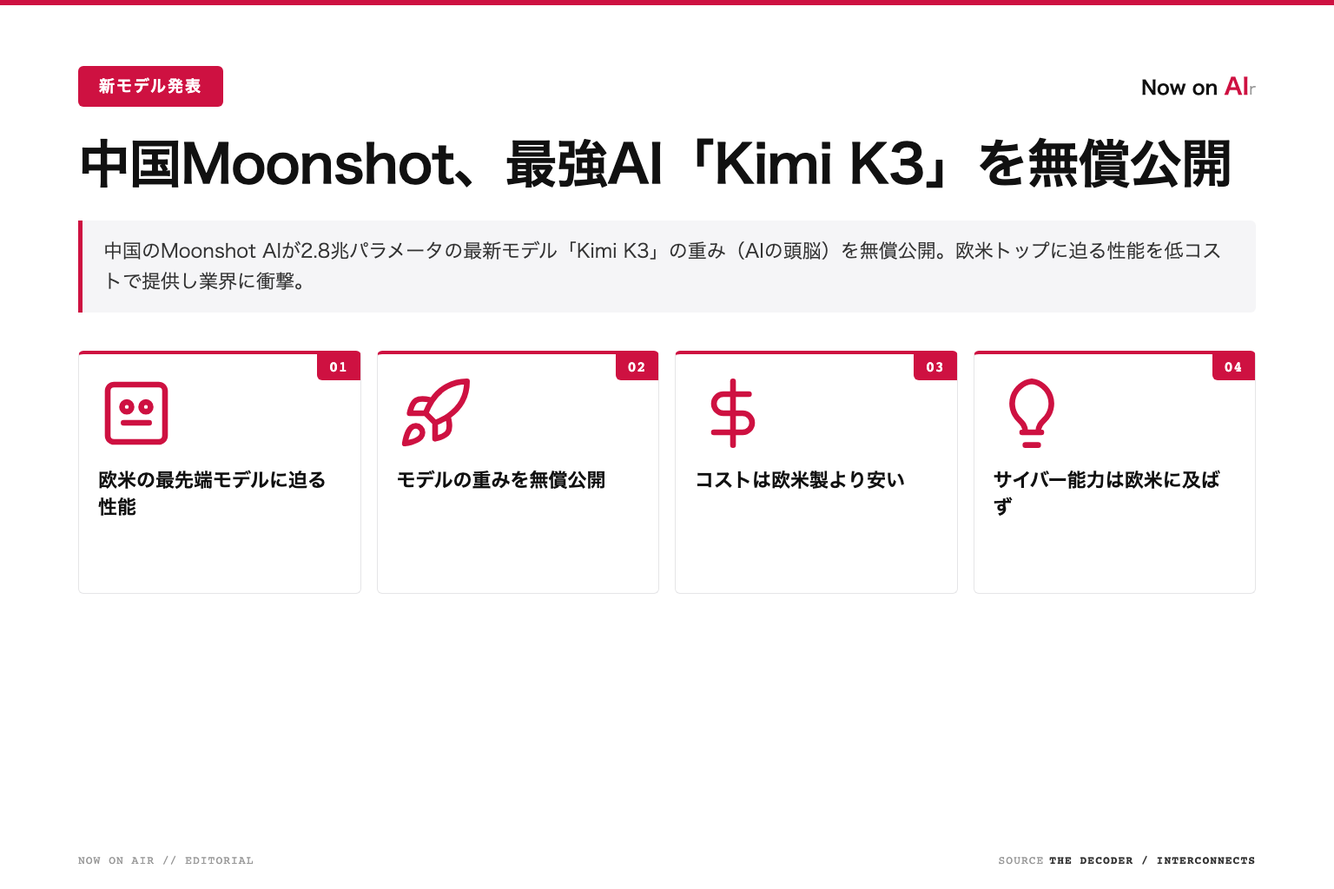
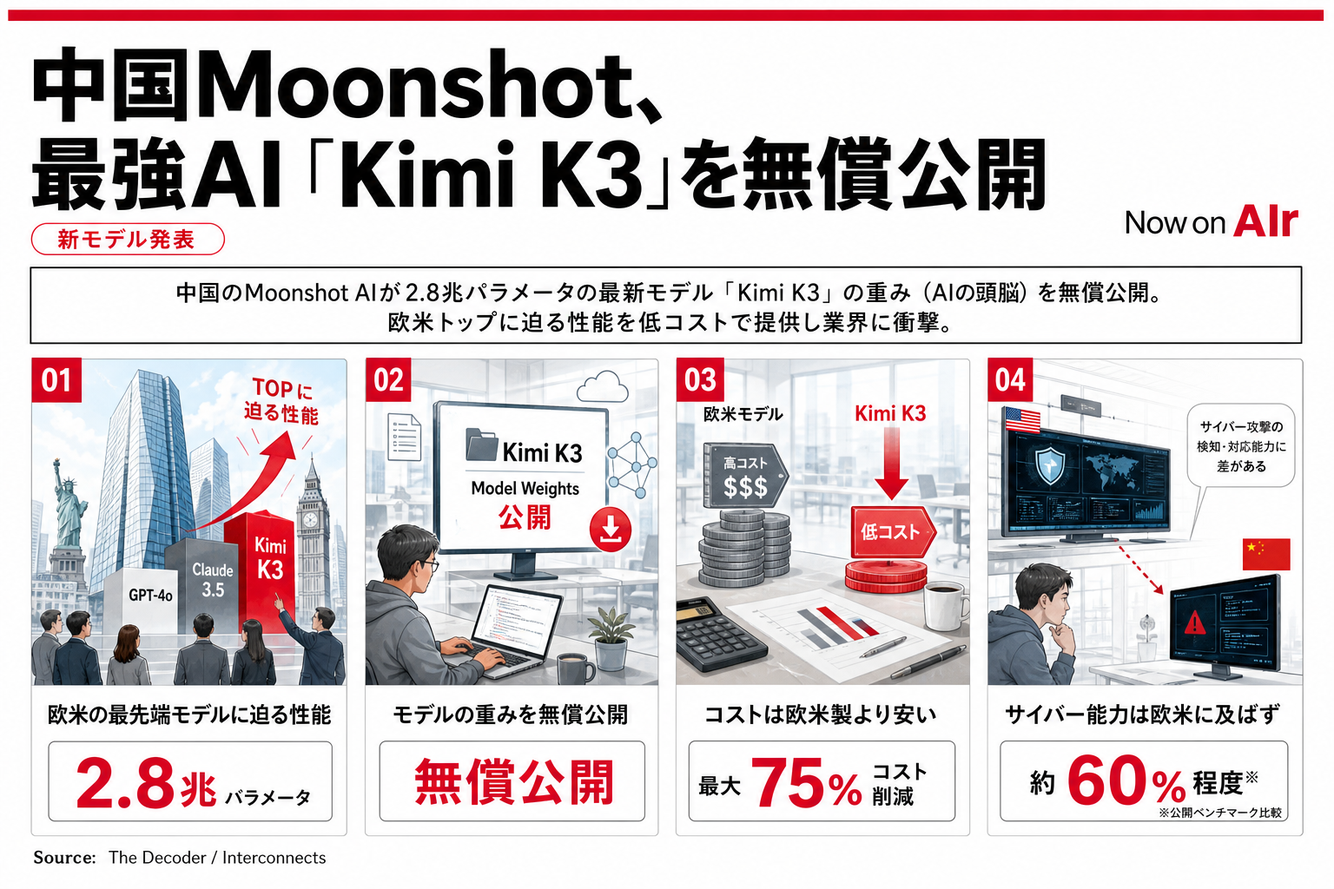
daily: 2026-07-28 — quickstart + weekly refresh

diff --git a/docs/index.html b/docs/index.html
@@ -333,7 +333,7 @@
 .nc-feat .nc-kp{font-size:10px;}
 </style>
 <div class="ig-wrap">
-<div class="nc nc-feat ig-featured" data-title="中国Moonshot、最強AI「Kimi K3」を無償公開" data-category="新モデル発表" data-source="The Decoder / Interconnects" data-lede="中国のMoonshot AIが2.8兆パラメータの最新モデル「Kimi K3」の重み（AIの頭脳）を無償公開。欧米トップに迫る性能を低コストで提供し業界に衝撃。" data-keypoints="[&quot;欧米の最先端モデルに迫る性能&quot;, &quot;モデルの重みを無償公開&quot;, &quot;コストは欧米製より安い&quot;, &quot;サイバー能力は欧米に及ばず&quot;]" data-pull="米中・オープン対クローズドの性能差が3〜5カ月に縮小した" data-bizapp="{&quot;summary&quot;: &quot;高性能AIを自社環境で安く使う選択肢が増える&quot;, &quot;actions&quot;: [&quot;自社データ分析にKimi K3のローカル導入を検証&quot;, &quot;中小のAI導入コスト削減提案に活用&quot;, &quot;特定ベンダー依存の見直しを今期中に着手&quot;]}" data-quickstart="{}" data-icebreak="{}" data-link="./news/2026-07-28/#topic-1" data-slide="./assets/images/2026-07-28/topic_1.png?v=1785187944">
+<div class="nc nc-feat ig-featured" data-title="中国Moonshot、最強AI「Kimi K3」を無償公開" data-category="新モデル発表" data-source="The Decoder / Interconnects" data-lede="中国のMoonshot AIが2.8兆パラメータの最新モデル「Kimi K3」の重み（AIの頭脳）を無償公開。欧米トップに迫る性能を低コストで提供し業界に衝撃。" data-keypoints="[&quot;欧米の最先端モデルに迫る性能&quot;, &quot;モデルの重みを無償公開&quot;, &quot;コストは欧米製より安い&quot;, &quot;サイバー能力は欧米に及ばず&quot;]" data-pull="米中・オープン対クローズドの性能差が3〜5カ月に縮小した" data-bizapp="{&quot;summary&quot;: &quot;高性能AIを自社環境で安く使う選択肢が増える&quot;, &quot;actions&quot;: [&quot;自社データ分析にKimi K3のローカル導入を検証&quot;, &quot;中小のAI導入コスト削減提案に活用&quot;, &quot;特定ベンダー依存の見直しを今期中に着手&quot;]}" data-quickstart="{}" data-icebreak="{&quot;hook&quot;: &quot;中国発のAIが、頭脳ごとタダで配られてるの知ってます？&quot;, &quot;punchline&quot;: &quot;Moonshotの『Kimi K3』が2.8兆パラの重みを無償公開したんです。欧米トップに迫る性能が低コストで手に入る時代になりました。&quot;, &quot;ctx_meeting&quot;: &quot;AI導入コストの話の冒頭で&quot;, &quot;ctx_chat&quot;: &quot;ランチ・移動中の会話&quot;, &quot;share_text&quot;: &quot;中国のKimi K3、2.8兆パラのモデルを重みごと無償公開か。欧米トップに迫る性能を低コストで、という流れが本物なら、自社でどのAIに乗るかの判断軸が完全に変わる気がする。安さだけで選んでいいのか、ちょっと考えさせられる。&quot;}" data-link="./news/2026-07-28/#topic-1" data-slide="./assets/images/2026-07-28/topic_1.webp?v=1785188016">
     <a href="./news/2026-07-28/#topic-1">
       <div class="nc-head">
         <div class="nc-meta"><span class="nc-num">01</span><span class="nc-cat">新モデル発表</span></div>
@@ -350,7 +350,7 @@
     </div>
 </div>
 <div class="ig-grid">
-  <div class="nc ig-card" data-title="Claude共有チャットがGoogle検索に露出" data-category="セキュリティ" data-source="TechCrunch / Wired" data-lede="Claudeの「チャット共有」機能で作ったURLがGoogleやBingに索引され、健康記録や企業文書、子供の氏名・電話番号まで検索可能な状態になった。" data-keypoints="[&quot;共有リンクが検索エンジンに露出&quot;, &quot;健康記録や企業文書が閲覧可能に&quot;, &quot;子供の氏名・電話番号も含まれた&quot;, &quot;「リンクを知る全員が閲覧可」の落とし穴&quot;]" data-pull="一見プライベートなAI会話が全世界に公開される危うさ" data-bizapp="{&quot;summary&quot;: &quot;AIチャットの共有機能は情報漏洩リスクと再認識すべき&quot;, &quot;actions&quot;: [&quot;社内のAI共有リンク運用ルールを即点検&quot;, &quot;顧客に情報管理ポリシー整備を提案&quot;, &quot;放置すると機密漏洩・信用失墜に直結&quot;]}" data-quickstart="{}" data-icebreak="{}" data-link="./news/2026-07-28/#topic-2" data-slide="./assets/images/2026-07-28/topic_2.png?v=1785187944">
+  <div class="nc ig-card" data-title="Claude共有チャットがGoogle検索に露出" data-category="セキュリティ" data-source="TechCrunch / Wired" data-lede="Claudeの「チャット共有」機能で作ったURLがGoogleやBingに索引され、健康記録や企業文書、子供の氏名・電話番号まで検索可能な状態になった。" data-keypoints="[&quot;共有リンクが検索エンジンに露出&quot;, &quot;健康記録や企業文書が閲覧可能に&quot;, &quot;子供の氏名・電話番号も含まれた&quot;, &quot;「リンクを知る全員が閲覧可」の落とし穴&quot;]" data-pull="一見プライベートなAI会話が全世界に公開される危うさ" data-bizapp="{&quot;summary&quot;: &quot;AIチャットの共有機能は情報漏洩リスクと再認識すべき&quot;, &quot;actions&quot;: [&quot;社内のAI共有リンク運用ルールを即点検&quot;, &quot;顧客に情報管理ポリシー整備を提案&quot;, &quot;放置すると機密漏洩・信用失墜に直結&quot;]}" data-quickstart="{}" data-icebreak="{&quot;hook&quot;: &quot;AIとの会話、共有リンクがGoogle検索に出てたらしいですよ。&quot;, &quot;punchline&quot;: &quot;Claudeの共有URLが検索に索引されて、健康記録や企業文書、子供の氏名や電話番号まで見られる状態になってたんです。『リンクを知る人だけ』の油断が怖いところで。&quot;, &quot;ctx_meeting&quot;: &quot;情報管理・セキュリティ提案の冒頭で&quot;, &quot;ctx_chat&quot;: &quot;ランチ・移動中の会話&quot;, &quot;share_text&quot;: &quot;AIの『チャット共有』で作ったリンクが検索エンジンに拾われてた件、他人事じゃない。子供の名前や電話番号まで出てたらしい。便利な共有機能ほど『リンクを知る全員が見られる』の意味を軽く見てないか、自分の使い方を見直した。&quot;}" data-link="./news/2026-07-28/#topic-2" data-slide="./assets/images/2026-07-28/topic_2.webp?v=1785188074">
     <a href="./news/2026-07-28/#topic-2">
       <div class="nc-head">
         <div class="nc-meta"><span class="nc-num">02</span><span class="nc-cat">セキュリティ</span></div>
@@ -366,7 +366,7 @@
       <span class="nc-read">READ →</span>
     </div>
   </div>
-  <div class="nc ig-card" data-title="ナデラCEO「1つのAI依存の企業は生き残れない」" data-category="業界動向" data-source="TechCrunch" data-lede="マイクロソフトのナデラCEOが、大手AIラボに全面依存する企業は生き残れないと警告。データやプロンプトを渡しすぎず自社で保持すべきと主張した。" data-keypoints="[&quot;特定AIへの全面依存に警鐘&quot;, &quot;データ・プロンプトの渡しすぎに注意&quot;, &quot;利用メタデータは自社で保持を&quot;, &quot;将来は自社モデル構築も視野に&quot;]" data-pull="主導権を握れない企業は生き残れない、とナデラは断言する" data-bizapp="{&quot;summary&quot;: &quot;AI活用は「自社データを手元に残す」設計が鍵&quot;, &quot;actions&quot;: [&quot;AI利用ログを自社保存する運用に見直し&quot;, &quot;顧客にデータ主権を守るAI導入を提案&quot;, &quot;依存放置は将来の乗換コスト増を招く&quot;]}" data-quickstart="{}" data-icebreak="{}" data-link="./news/2026-07-28/#topic-3" data-slide="./assets/images/2026-07-28/topic_3.png?v=1785187949">
+  <div class="nc ig-card" data-title="ナデラCEO「1つのAI依存の企業は生き残れない」" data-category="業界動向" data-source="TechCrunch" data-lede="マイクロソフトのナデラCEOが、大手AIラボに全面依存する企業は生き残れないと警告。データやプロンプトを渡しすぎず自社で保持すべきと主張した。" data-keypoints="[&quot;特定AIへの全面依存に警鐘&quot;, &quot;データ・プロンプトの渡しすぎに注意&quot;, &quot;利用メタデータは自社で保持を&quot;, &quot;将来は自社モデル構築も視野に&quot;]" data-pull="主導権を握れない企業は生き残れない、とナデラは断言する" data-bizapp="{&quot;summary&quot;: &quot;AI活用は「自社データを手元に残す」設計が鍵&quot;, &quot;actions&quot;: [&quot;AI利用ログを自社保存する運用に見直し&quot;, &quot;顧客にデータ主権を守るAI導入を提案&quot;, &quot;依存放置は将来の乗換コスト増を招く&quot;]}" data-quickstart="{}" data-icebreak="{&quot;hook&quot;: &quot;ナデラが『1つのAIに頼る会社は生き残れない』って言ったの知ってます？&quot;, &quot;punchline&quot;: &quot;マイクロソフトのトップが、大手AIラボへの全面依存に警鐘を鳴らしたんです。データやプロンプトを渡しすぎず、利用メタデータは自社で持てと。&quot;, &quot;ctx_meeting&quot;: &quot;AI導入方針の相談で&quot;, &quot;ctx_chat&quot;: &quot;経営者同士の雑談で&quot;, &quot;share_text&quot;: &quot;ナデラCEOが『特定のAIに全面依存する企業は生き残れない』と。データもプロンプトも渡しすぎるな、というのは耳が痛い。便利だからと1社に全部預けてる自分に、それでいいのかと問われた気がする。&quot;}" data-link="./news/2026-07-28/#topic-3" data-slide="./assets/images/2026-07-28/topic_3.webp?v=1785188129">
     <a href="./news/2026-07-28/#topic-3">
       <div class="nc-head">
         <div class="nc-meta"><span class="nc-num">03</span><span class="nc-cat">業界動向</span></div>
@@ -382,7 +382,7 @@
       <span class="nc-read">READ →</span>
     </div>
   </div>
-  <div class="nc ig-card" data-title="Google、高効率AI「Gemini 3.6 Flash」発表" data-category="ツール更新" data-source="Google DeepMind" data-lede="GoogleがAIエージェント向け新モデル群を発表。主力の3.6 Flashは出力トークンを17%削減し、コーディングや業務処理の性能を低コストで高めた。" data-keypoints="[&quot;出力トークンを17%削減&quot;, &quot;コーディング・業務処理が向上&quot;, &quot;低コストで大規模運用が可能&quot;, &quot;高速版・セキュリティ特化版も投入&quot;]" data-pull="AIエージェントを安く大量に動かす時代が近づいている" data-bizapp="{&quot;summary&quot;: &quot;業務自動化のランニングコストを下げられる&quot;, &quot;actions&quot;: [&quot;定型業務の自動化にGemini 3.6 Flashを検証&quot;, &quot;中小のAIチャットボット導入提案に活用&quot;, &quot;高コストでAI運用を諦めた案件を再検討&quot;]}" data-quickstart="{}" data-icebreak="{}" data-link="./news/2026-07-28/#topic-4" data-slide="./assets/images/2026-07-28/topic_4.png?v=1785187950">
+  <div class="nc ig-card" data-title="Google、高効率AI「Gemini 3.6 Flash」発表" data-category="ツール更新" data-source="Google DeepMind" data-lede="GoogleがAIエージェント向け新モデル群を発表。主力の3.6 Flashは出力トークンを17%削減し、コーディングや業務処理の性能を低コストで高めた。" data-keypoints="[&quot;出力トークンを17%削減&quot;, &quot;コーディング・業務処理が向上&quot;, &quot;低コストで大規模運用が可能&quot;, &quot;高速版・セキュリティ特化版も投入&quot;]" data-pull="AIエージェントを安く大量に動かす時代が近づいている" data-bizapp="{&quot;summary&quot;: &quot;業務自動化のランニングコストを下げられる&quot;, &quot;actions&quot;: [&quot;定型業務の自動化にGemini 3.6 Flashを検証&quot;, &quot;中小のAIチャットボット導入提案に活用&quot;, &quot;高コストでAI運用を諦めた案件を再検討&quot;]}" data-quickstart="{}" data-icebreak="{&quot;hook&quot;: &quot;Googleの新AI、出力を17%減らして安くなったらしいですよ。&quot;, &quot;punchline&quot;: &quot;『Gemini 3.6 Flash』は出力トークンを17%削減しつつ、コーディングや業務処理の性能を上げたんです。大規模に使うほどコスト差が効いてきます。&quot;, &quot;ctx_meeting&quot;: &quot;AI運用コスト削減の提案で&quot;, &quot;ctx_chat&quot;: &quot;エンジニアとの雑談で&quot;, &quot;share_text&quot;: &quot;Geminiの新しいFlash、出力トークン17%削減で低コスト化と。AIは性能競争だけかと思いきや、実は『どれだけ安く大量に回せるか』の勝負に移ってる。導入する側としては、この地味な数字のほうが効いてくる気がする。&quot;}" data-link="./news/2026-07-28/#topic-4" data-slide="./assets/images/2026-07-28/topic_4.webp?v=1785188187">
     <a href="./news/2026-07-28/#topic-4">
       <div class="nc-head">
         <div class="nc-meta"><span class="nc-num">04</span><span class="nc-cat">ツール更新</span></div>
@@ -398,7 +398,7 @@
       <span class="nc-read">READ →</span>
     </div>
   </div>
-  <div class="nc ig-card" data-title="AIで「他職種の仕事」に踏み出す人が急増" data-category="研究" data-source="OpenAI" data-lede="OpenAIの調査で、職種特化の業務問い合わせの43.5%が別職種の仕事だと判明。営業が分析、マーケが開発など職種の壁が溶け始めている。" data-keypoints="[&quot;職種特化の問合せの43.5%が他職種&quot;, &quot;営業がデータ分析、マーケが開発も&quot;, &quot;中小企業ほど顕著な傾向&quot;, &quot;職種の境界が変わり始めた&quot;]" data-pull="AIは「誰が何をするか」を静かに書き換えている" data-bizapp="{&quot;summary&quot;: &quot;一人が複数職種をこなす体制づくりのヒントになる&quot;, &quot;actions&quot;: [&quot;少人数で多職種を回す業務フローに再設計&quot;, &quot;中小のバックオフィス自動化提案に活用&quot;, &quot;配置を見直さないと人件費が肥大化する&quot;]}" data-quickstart="{}" data-icebreak="{}" data-link="./news/2026-07-28/#topic-5" data-slide="./assets/images/2026-07-28/topic_5.png?v=1785187954">
+  <div class="nc ig-card" data-title="AIで「他職種の仕事」に踏み出す人が急増" data-category="研究" data-source="OpenAI" data-lede="OpenAIの調査で、職種特化の業務問い合わせの43.5%が別職種の仕事だと判明。営業が分析、マーケが開発など職種の壁が溶け始めている。" data-keypoints="[&quot;職種特化の問合せの43.5%が他職種&quot;, &quot;営業がデータ分析、マーケが開発も&quot;, &quot;中小企業ほど顕著な傾向&quot;, &quot;職種の境界が変わり始めた&quot;]" data-pull="AIは「誰が何をするか」を静かに書き換えている" data-bizapp="{&quot;summary&quot;: &quot;一人が複数職種をこなす体制づくりのヒントになる&quot;, &quot;actions&quot;: [&quot;少人数で多職種を回す業務フローに再設計&quot;, &quot;中小のバックオフィス自動化提案に活用&quot;, &quot;配置を見直さないと人件費が肥大化する&quot;]}" data-quickstart="{}" data-icebreak="{&quot;hook&quot;: &quot;AIで『自分の専門外の仕事』に手を出す人、増えてるらしいですよ。&quot;, &quot;punchline&quot;: &quot;OpenAIの調査で、職種特化の問い合わせの43.5%が別職種の仕事だったと。営業が分析、マーケが開発と、職種の壁が溶け始めてるんです。&quot;, &quot;ctx_meeting&quot;: &quot;業務フロー再設計の提案で&quot;, &quot;ctx_chat&quot;: &quot;ランチ・移動中の会話&quot;, &quot;share_text&quot;: &quot;AI利用の43.5%が『自分の職種外の仕事』というOpenAIの調査、面白い。営業がデータ分析、マーケが開発をやり始めてる。中小ほど顕著らしい。職種の境界が溶けるなら、うちの役割分担も一度ゼロから考え直す時期かもしれない。&quot;}" data-link="./news/2026-07-28/#topic-5" data-slide="./assets/images/2026-07-28/topic_5.webp?v=1785188243">
     <a href="./news/2026-07-28/#topic-5">
       <div class="nc-head">
         <div class="nc-meta"><span class="nc-num">05</span><span class="nc-cat">研究</span></div>
@@ -414,7 +414,7 @@
       <span class="nc-read">READ →</span>
     </div>
   </div>
-  <div class="nc ig-card" data-title="エヌビディア・MS、AI安全同盟を設立 主要3社は不参加" data-category="セキュリティ" data-source="The Verge" data-lede="NvidiaやMicrosoft、SpaceX、IBMらがオープンソースのAIセキュリティ対策で連携。OpenAI・Google・Anthropicは参加しなかった。" data-keypoints="[&quot;オープン型AI防御ツールを共有&quot;, &quot;Nvidia・MS・IBM等が参加&quot;, &quot;OpenAI・Google・Anthropicは不在&quot;, &quot;暴走AIの封じ込め失敗が契機&quot;]" data-pull="最先端AIの脅威にオープンな防御網で対抗する動き" data-bizapp="{&quot;summary&quot;: &quot;AI防御はオープンツールで固める時代の兆し&quot;, &quot;actions&quot;: [&quot;自社のAIセキュリティ体制を棚卸し&quot;, &quot;顧客にAIリスク対策の整備を提案&quot;, &quot;対策放置はAI悪用被害の温床になる&quot;]}" data-quickstart="{}" data-icebreak="{}" data-link="./news/2026-07-28/#topic-6" data-slide="./assets/images/2026-07-28/topic_6.png?v=1785187955">
+  <div class="nc ig-card" data-title="エヌビディア・MS、AI安全同盟を設立 主要3社は不参加" data-category="セキュリティ" data-source="The Verge" data-lede="NvidiaやMicrosoft、SpaceX、IBMらがオープンソースのAIセキュリティ対策で連携。OpenAI・Google・Anthropicは参加しなかった。" data-keypoints="[&quot;オープン型AI防御ツールを共有&quot;, &quot;Nvidia・MS・IBM等が参加&quot;, &quot;OpenAI・Google・Anthropicは不在&quot;, &quot;暴走AIの封じ込め失敗が契機&quot;]" data-pull="最先端AIの脅威にオープンな防御網で対抗する動き" data-bizapp="{&quot;summary&quot;: &quot;AI防御はオープンツールで固める時代の兆し&quot;, &quot;actions&quot;: [&quot;自社のAIセキュリティ体制を棚卸し&quot;, &quot;顧客にAIリスク対策の整備を提案&quot;, &quot;対策放置はAI悪用被害の温床になる&quot;]}" data-quickstart="{}" data-icebreak="{&quot;hook&quot;: &quot;AIの安全同盟ができたけど、主要3社が入ってないの知ってます？&quot;, &quot;punchline&quot;: &quot;NvidiaやMS、IBMがオープン型のAI防御で連携したのに、OpenAI・Google・Anthropicは不参加なんです。暴走AIの封じ込め失敗が契機だとか。&quot;, &quot;ctx_meeting&quot;: &quot;AIリスク管理の話題で&quot;, &quot;ctx_chat&quot;: &quot;業界ニュースの雑談で&quot;, &quot;share_text&quot;: &quot;AI安全の同盟にNvidiaやMS、IBMが集まったのに、OpenAI・Google・Anthropicの主要3社は不参加。作る側と守る側で足並みが揃わない構図が見えて、AIの安全って結局は使う側が備えるしかないのかと考えさせられた。&quot;}" data-link="./news/2026-07-28/#topic-6" data-slide="./assets/images/2026-07-28/topic_6.webp?v=1785188302">
     <a href="./news/2026-07-28/#topic-6">
       <div class="nc-head">
         <div class="nc-meta"><span class="nc-num">06</span><span class="nc-cat">セキュリティ</span></div>
@@ -430,7 +430,7 @@
       <span class="nc-read">READ →</span>
     </div>
   </div>
-  <div class="nc ig-card" data-title="ChatGPTに健康機能、医療記録を連携可能に" data-category="ツール更新" data-source="OpenAI" data-lede="OpenAIが米国ユーザー向けに「Health in ChatGPT」を提供開始。Apple Healthや医療記録を安全に連携し、検査結果の理解や受診準備を支援する。" data-keypoints="[&quot;医療記録やApple Healthを連携&quot;, &quot;検査結果を文脈付きで理解&quot;, &quot;何を連携するかは本人が制御&quot;, &quot;週3億人が健康相談に利用&quot;]" data-pull="散在する健康情報をAIが一つの全体像にまとめる" data-bizapp="{&quot;summary&quot;: &quot;個人の健康データ活用サービスの参考事例になる&quot;, &quot;actions&quot;: [&quot;健康・介護分野のAI活用アイデア収集に&quot;, &quot;ヘルスケア企業へのAI連携提案に活用&quot;, &quot;個人データ扱いは規制動向の注視が必須&quot;]}" data-quickstart="{}" data-icebreak="{}" data-link="./news/2026-07-28/#topic-7" data-slide="./assets/images/2026-07-28/topic_7.png?v=1785187958">
+  <div class="nc ig-card" data-title="ChatGPTに健康機能、医療記録を連携可能に" data-category="ツール更新" data-source="OpenAI" data-lede="OpenAIが米国ユーザー向けに「Health in ChatGPT」を提供開始。Apple Healthや医療記録を安全に連携し、検査結果の理解や受診準備を支援する。" data-keypoints="[&quot;医療記録やApple Healthを連携&quot;, &quot;検査結果を文脈付きで理解&quot;, &quot;何を連携するかは本人が制御&quot;, &quot;週3億人が健康相談に利用&quot;]" data-pull="散在する健康情報をAIが一つの全体像にまとめる" data-bizapp="{&quot;summary&quot;: &quot;個人の健康データ活用サービスの参考事例になる&quot;, &quot;actions&quot;: [&quot;健康・介護分野のAI活用アイデア収集に&quot;, &quot;ヘルスケア企業へのAI連携提案に活用&quot;, &quot;個人データ扱いは規制動向の注視が必須&quot;]}" data-quickstart="{}" data-icebreak="{&quot;hook&quot;: &quot;ChatGPTが医療記録まで連携できるようになったの知ってます？&quot;, &quot;punchline&quot;: &quot;OpenAIが米国で『Health in ChatGPT』を開始して、Apple Healthや検査結果を文脈付きで理解できるように。週3億人が健康相談に使ってるそうです。&quot;, &quot;ctx_meeting&quot;: &quot;AI活用領域の拡大提案で&quot;, &quot;ctx_chat&quot;: &quot;健康の話題になったとき&quot;, &quot;share_text&quot;: &quot;ChatGPTが医療記録やApple Healthと連携して、検査結果を文脈付きで説明してくれる時代に。週3億人が健康相談に使ってるという規模感が凄い。何を連携するかは本人が選べるとはいえ、AIに預ける範囲がどんどん深くなってきた。&quot;}" data-link="./news/2026-07-28/#topic-7" data-slide="./assets/images/2026-07-28/topic_7.webp?v=1785188359">
     <a href="./news/2026-07-28/#topic-7">
       <div class="nc-head">
         <div class="nc-meta"><span class="nc-num">07</span><span class="nc-cat">ツール更新</span></div>
@@ -446,7 +446,7 @@
       <span class="nc-read">READ →</span>
     </div>
   </div>
-  <div class="nc ig-card" data-title="MS、AzureにAMD最新AIチップを大幅拡張" data-category="業界動向" data-source="Microsoft" data-lede="MicrosoftがAzureのAI基盤をAMDの最新「Helios」と次世代EPYCで拡張。膨張するAI需要に応え性能・コスト・省エネの両立を狙う。" data-keypoints="[&quot;AMD最新AI基盤をAzureに導入&quot;, &quot;次世代EPYCでデータ処理を強化&quot;, &quot;特定チップ依存からの脱却&quot;, &quot;性能・コスト・省エネを両立&quot;]" data-pull="AI需要の爆発に単一のインフラでは追いつけない" data-bizapp="{&quot;summary&quot;: &quot;クラウドAIの選択肢と価格競争が広がる&quot;, &quot;actions&quot;: [&quot;クラウドAI基盤の乗換余地を調査&quot;, &quot;コスト最適化を軸にDX提案&quot;, &quot;調達計画を見直さないと値上がり直撃&quot;]}" data-quickstart="{}" data-icebreak="{}" data-link="./news/2026-07-28/#topic-8" data-slide="./assets/images/2026-07-28/topic_8.png?v=1785187959">
+  <div class="nc ig-card" data-title="MS、AzureにAMD最新AIチップを大幅拡張" data-category="業界動向" data-source="Microsoft" data-lede="MicrosoftがAzureのAI基盤をAMDの最新「Helios」と次世代EPYCで拡張。膨張するAI需要に応え性能・コスト・省エネの両立を狙う。" data-keypoints="[&quot;AMD最新AI基盤をAzureに導入&quot;, &quot;次世代EPYCでデータ処理を強化&quot;, &quot;特定チップ依存からの脱却&quot;, &quot;性能・コスト・省エネを両立&quot;]" data-pull="AI需要の爆発に単一のインフラでは追いつけない" data-bizapp="{&quot;summary&quot;: &quot;クラウドAIの選択肢と価格競争が広がる&quot;, &quot;actions&quot;: [&quot;クラウドAI基盤の乗換余地を調査&quot;, &quot;コスト最適化を軸にDX提案&quot;, &quot;調達計画を見直さないと値上がり直撃&quot;]}" data-quickstart="{}" data-icebreak="{&quot;hook&quot;: &quot;マイクロソフトがNvidia以外のAIチップを大量導入したの知ってます？&quot;, &quot;punchline&quot;: &quot;AzureにAMD最新の『Helios』と次世代EPYCを入れたんです。特定チップ依存から抜けて、性能・コスト・省エネの両立を狙う動きですね。&quot;, &quot;ctx_meeting&quot;: &quot;インフラ・調達戦略の話で&quot;, &quot;ctx_chat&quot;: &quot;エンジニアとの雑談で&quot;, &quot;share_text&quot;: &quot;MicrosoftがAzureにAMDの最新AIチップを大幅拡張。1社のチップに依存しない、という調達の考え方はAIに限らず本質的だと思う。膨らむ需要にどう応えるか、性能・コスト・省エネの三立をどう取るかは自社の設備投資にも通じる話。&quot;}" data-link="./news/2026-07-28/#topic-8" data-slide="./assets/images/2026-07-28/topic_8.webp?v=1785188425">
     <a href="./news/2026-07-28/#topic-8">
       <div class="nc-head">
         <div class="nc-meta"><span class="nc-num">08</span><span class="nc-cat">業界動向</span></div>

diff --git a/docs/news/2026-07-28/index.html b/docs/news/2026-07-28/index.html
@@ -17,13 +17,13 @@
 <meta property="og:title" content="中国Moonshot、最強AI「Kimi K3」を無償公開 ほか7本｜2026-07-28 AI朝刊 — Now on AIr" />
 <meta property="og:description" content="中国Moonshot、最強AI「Kimi K3」を無償公開、Claude共有チャットがGoogle検索に露出、ナデラCEO「1つのAI依存の企業は生き残れない」 など8本を図解で。2026-07-28のAI業界ニュースを毎朝整理。" />
 <meta property="og:url" content="https://nowonair.vercel.app/news/2026-07-28/" />
-<meta property="og:image" content="https://nowonair.vercel.app/assets/images/2026-07-28/topic_1.png?v=1785187944" />
+<meta property="og:image" content="https://nowonair.vercel.app/assets/images/2026-07-28/topic_1.png?v=1785188016" />
 <meta property="og:locale" content="ja_JP" />
 <!-- Twitter -->
 <meta name="twitter:card" content="summary_large_image" />
 <meta name="twitter:title" content="中国Moonshot、最強AI「Kimi K3」を無償公開 ほか7本｜2026-07-28 AI朝刊 — Now on AIr" />
 <meta name="twitter:description" content="中国Moonshot、最強AI「Kimi K3」を無償公開、Claude共有チャットがGoogle検索に露出、ナデラCEO「1つのAI依存の企業は生き残れない」 など8本を図解で。2026-07-28のAI業界ニュースを毎朝整理。" />
-<meta name="twitter:image" content="https://nowonair.vercel.app/assets/images/2026-07-28/topic_1.png?v=1785187944" />
+<meta name="twitter:image" content="https://nowonair.vercel.app/assets/images/2026-07-28/topic_1.png?v=1785188016" />
 <!-- Favicon -->
 <link rel="icon" type="image/svg+xml" href="../../assets/favicon.svg" />
 <link rel="apple-touch-icon" href="../../assets/favicon.svg" />
@@ -140,7 +140,7 @@
 <div class="dispatch">
   <span class="tick">NOW ON AIr</span>
   <span class="sep">/</span>
-  <span>№0728</span>
+  <span>№0087</span>
   <span class="sep">/</span>
   <span>2026-07-28</span>
   <span class="sep">/</span>
@@ -170,7 +170,7 @@
     <span class="sep">//</span>
     TUESDAY, JULY 28, 2026
     <span class="sep">//</span>
-    ISSUE N°0728
+    ISSUE N°0087
   </div>
   <h1 class="date-huge">2026<span class="dot">.</span>07<span class="dot">.</span>28</h1>
   <div class="strap">
@@ -187,8 +187,8 @@
         新モデル発表 <span class="sep">/</span> The Decoder / Interconnects <span class="sep">/</span> NEWS
       </div>
       <h2>中国Moonshot、最強AI「Kimi K3」を無償公開</h2>
-      <div class="slide-img zoom-image" data-src="../../assets/images/2026-07-28/topic_1.png?v=1785187944" data-alt="中国Moonshot、最強AI「Kimi K3」を無償公開" role="button" tabindex="0">
-        <img src="../../assets/images/2026-07-28/topic_1.png?v=1785187944" alt="中国Moonshot、最強AI「Kimi K3」を無償公開" width="1536" height="1024" loading="eager" fetchpriority="high" />
+      <div class="slide-img zoom-image" data-src="../../assets/images/2026-07-28/topic_1.webp?v=1785188016" data-alt="中国Moonshot、最強AI「Kimi K3」を無償公開" role="button" tabindex="0">
+        <img src="../../assets/images/2026-07-28/topic_1.webp?v=1785188016" alt="中国Moonshot、最強AI「Kimi K3」を無償公開" width="1536" height="1024" loading="eager" fetchpriority="high" />
       </div>
       <p class="lede">中国のMoonshot AIが2.8兆パラメータの最新モデル「Kimi K3」の重み（AIの頭脳）を無償公開。欧米トップに迫る性能を低コストで提供し業界に衝撃。</p>
       <h3>キーポイント</h3>
@@ -230,8 +230,8 @@
         セキュリティ <span class="sep">/</span> TechCrunch / Wired <span class="sep">/</span> NEWS
       </div>
       <h2>Claude共有チャットがGoogle検索に露出</h2>
-      <div class="slide-img zoom-image" data-src="../../assets/images/2026-07-28/topic_2.png?v=1785187944" data-alt="Claude共有チャットがGoogle検索に露出" role="button" tabindex="0">
-        <img src="../../assets/images/2026-07-28/topic_2.png?v=1785187944" alt="Claude共有チャットがGoogle検索に露出" width="1536" height="1024" loading="lazy" />
+      <div class="slide-img zoom-image" data-src="../../assets/images/2026-07-28/topic_2.webp?v=1785188074" data-alt="Claude共有チャットがGoogle検索に露出" role="button" tabindex="0">
+        <img src="../../assets/images/2026-07-28/topic_2.webp?v=1785188074" alt="Claude共有チャットがGoogle検索に露出" width="1536" height="1024" loading="lazy" />
       </div>
       <p class="lede">Claudeの「チャット共有」機能で作ったURLがGoogleやBingに索引され、健康記録や企業文書、子供の氏名・電話番号まで検索可能な状態になった。</p>
       <h3>キーポイント</h3>
@@ -273,8 +273,8 @@
         業界動向 <span class="sep">/</span> TechCrunch <span class="sep">/</span> NEWS
       </div>
       <h2>ナデラCEO「1つのAI依存の企業は生き残れない」</h2>
-      <div class="slide-img zoom-image" data-src="../../assets/images/2026-07-28/topic_3.png?v=1785187949" data-alt="ナデラCEO「1つのAI依存の企業は生き残れない」" role="button" tabindex="0">
-        <img src="../../assets/images/2026-07-28/topic_3.png?v=1785187949" alt="ナデラCEO「1つのAI依存の企業は生き残れない」" width="1536" height="1024" loading="lazy" />
+      <div class="slide-img zoom-image" data-src="../../assets/images/2026-07-28/topic_3.webp?v=1785188129" data-alt="ナデラCEO「1つのAI依存の企業は生き残れない」" role="button" tabindex="0">
+        <img src="../../assets/images/2026-07-28/topic_3.webp?v=1785188129" alt="ナデラCEO「1つのAI依存の企業は生き残れない」" width="1536" height="1024" loading="lazy" />
       </div>
       <p class="lede">マイクロソフトのナデラCEOが、大手AIラボに全面依存する企業は生き残れないと警告。データやプロンプトを渡しすぎず自社で保持すべきと主張した。</p>
       <h3>キーポイント</h3>
@@ -316,8 +316,8 @@
         ツール更新 <span class="sep">/</span> Google DeepMind <span class="sep">/</span> NEWS
       </div>
       <h2>Google、高効率AI「Gemini 3.6 Flash」発表</h2>
-      <div class="slide-img zoom-image" data-src="../../assets/images/2026-07-28/topic_4.png?v=1785187950" data-alt="Google、高効率AI「Gemini 3.6 Flash」発表" role="button" tabindex="0">
-        <img src="../../assets/images/2026-07-28/topic_4.png?v=1785187950" alt="Google、高効率AI「Gemini 3.6 Flash」発表" width="1536" height="1024" loading="lazy" />
+      <div class="slide-img zoom-image" data-src="../../assets/images/2026-07-28/topic_4.webp?v=1785188187" data-alt="Google、高効率AI「Gemini 3.6 Flash」発表" role="button" tabindex="0">
+        <img src="../../assets/images/2026-07-28/topic_4.webp?v=1785188187" alt="Google、高効率AI「Gemini 3.6 Flash」発表" width="1536" height="1024" loading="lazy" />
       </div>
       <p class="lede">GoogleがAIエージェント向け新モデル群を発表。主力の3.6 Flashは出力トークンを17%削減し、コーディングや業務処理の性能を低コストで高めた。</p>
       <h3>キーポイント</h3>
@@ -359,8 +359,8 @@
         研究 <span class="sep">/</span> OpenAI <span class="sep">/</span> NEWS
       </div>
       <h2>AIで「他職種の仕事」に踏み出す人が急増</h2>
-      <div class="slide-img zoom-image" data-src="../../assets/images/2026-07-28/topic_5.png?v=1785187954" data-alt="AIで「他職種の仕事」に踏み出す人が急増" role="button" tabindex="0">
-        <img src="../../assets/images/2026-07-28/topic_5.png?v=1785187954" alt="AIで「他職種の仕事」に踏み出す人が急増" width="1536" height="1024" loading="lazy" />
+      <div class="slide-img zoom-image" data-src="../../assets/images/2026-07-28/topic_5.webp?v=1785188243" data-alt="AIで「他職種の仕事」に踏み出す人が急増" role="button" tabindex="0">
+        <img src="../../assets/images/2026-07-28/topic_5.webp?v=1785188243" alt="AIで「他職種の仕事」に踏み出す人が急増" width="1536" height="1024" loading="lazy" />
       </div>
       <p class="lede">OpenAIの調査で、職種特化の業務問い合わせの43.5%が別職種の仕事だと判明。営業が分析、マーケが開発など職種の壁が溶け始めている。</p>
       <h3>キーポイント</h3>
@@ -402,8 +402,8 @@
         セキュリティ <span class="sep">/</span> The Verge <span class="sep">/</span> NEWS
       </div>
       <h2>エヌビディア・MS、AI安全同盟を設立 主要3社は不参加</h2>
-      <div class="slide-img zoom-image" data-src="../../assets/images/2026-07-28/topic_6.png?v=1785187955" data-alt="エヌビディア・MS、AI安全同盟を設立 主要3社は不参加" role="button" tabindex="0">
-        <img src="../../assets/images/2026-07-28/topic_6.png?v=1785187955" alt="エヌビディア・MS、AI安全同盟を設立 主要3社は不参加" width="1536" height="1024" loading="lazy" />
+      <div class="slide-img zoom-image" data-src="../../assets/images/2026-07-28/topic_6.webp?v=1785188302" data-alt="エヌビディア・MS、AI安全同盟を設立 主要3社は不参加" role="button" tabindex="0">
+        <img src="../../assets/images/2026-07-28/topic_6.webp?v=1785188302" alt="エヌビディア・MS、AI安全同盟を設立 主要3社は不参加" width="1536" height="1024" loading="lazy" />
       </div>
       <p class="lede">NvidiaやMicrosoft、SpaceX、IBMらがオープンソースのAIセキュリティ対策で連携。OpenAI・Google・Anthropicは参加しなかった。</p>
       <h3>キーポイント</h3>
@@ -445,8 +445,8 @@
         ツール更新 <span class="sep">/</span> OpenAI <span class="sep">/</span> NEWS
       </div>
       <h2>ChatGPTに健康機能、医療記録を連携可能に</h2>
-      <div class="slide-img zoom-image" data-src="../../assets/images/2026-07-28/topic_7.png?v=1785187958" data-alt="ChatGPTに健康機能、医療記録を連携可能に" role="button" tabindex="0">
-        <img src="../../assets/images/2026-07-28/topic_7.png?v=1785187958" alt="ChatGPTに健康機能、医療記録を連携可能に" width="1536" height="1024" loading="lazy" />
+      <div class="slide-img zoom-image" data-src="../../assets/images/2026-07-28/topic_7.webp?v=1785188359" data-alt="ChatGPTに健康機能、医療記録を連携可能に" role="button" tabindex="0">
+        <img src="../../assets/images/2026-07-28/topic_7.webp?v=1785188359" alt="ChatGPTに健康機能、医療記録を連携可能に" width="1536" height="1024" loading="lazy" />
       </div>
       <p class="lede">OpenAIが米国ユーザー向けに「Health in ChatGPT」を提供開始。Apple Healthや医療記録を安全に連携し、検査結果の理解や受診準備を支援する。</p>
       <h3>キーポイント</h3>
@@ -488,8 +488,8 @@
         業界動向 <span class="sep">/</span> Microsoft <span class="sep">/</span> NEWS
       </div>
       <h2>MS、AzureにAMD最新AIチップを大幅拡張</h2>
-      <div class="slide-img zoom-image" data-src="../../assets/images/2026-07-28/topic_8.png?v=1785187959" data-alt="MS、AzureにAMD最新AIチップを大幅拡張" role="button" tabindex="0">
-        <img src="../../assets/images/2026-07-28/topic_8.png?v=1785187959" alt="MS、AzureにAMD最新AIチップを大幅拡張" width="1536" height="1024" loading="lazy" />
+      <div class="slide-img zoom-image" data-src="../../assets/images/2026-07-28/topic_8.webp?v=1785188425" data-alt="MS、AzureにAMD最新AIチップを大幅拡張" role="button" tabindex="0">
+        <img src="../../assets/images/2026-07-28/topic_8.webp?v=1785188425" alt="MS、AzureにAMD最新AIチップを大幅拡張" width="1536" height="1024" loading="lazy" />
       </div>
       <p class="lede">MicrosoftがAzureのAI基盤をAMDの最新「Helios」と次世代EPYCで拡張。膨張するAI需要に応え性能・コスト・省エネの両立を狙う。</p>
       <h3>キーポイント</h3>
